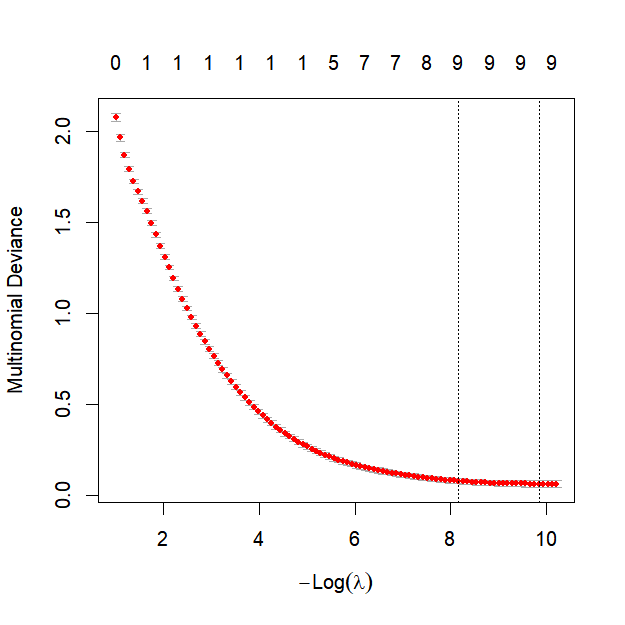
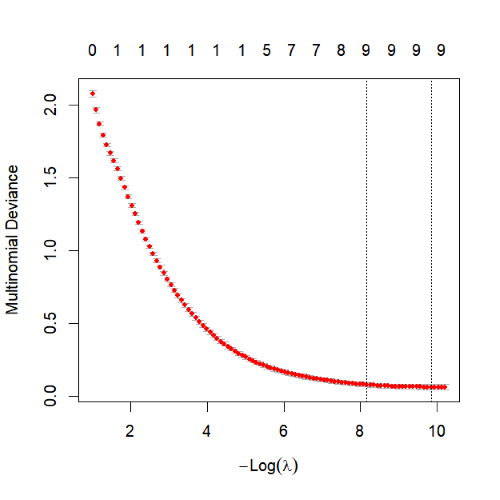
figure fixed

diff --git a/index.html b/index.html
@@ -1487,27 +1487,34 @@ updatePipelineProgress();
 
 
 <div class="bg-[linear-gradient(to_bottom,#ffffff_85%,#ffffff_100%)]">
-     <div class="grid  grid-cols-1 sm:grid-cols-[2fr_4fr] gap-0 p-4 sm:p-6 rounded-3xl mx-4 sm:mx-16 md:mx-40 bg-white overflow-hidden">
+     <div class="grid  grid-cols-1 gap-0 p-4 sm:p-6 rounded-3xl mx-4 sm:mx-16 md:mx-40 bg-white overflow-hidden">
 
           <div class="flex flex-col bg-[var(--color-bg-dark)] rounded-t-md sm:rounded-l-md sm:rounded-tr-none border-b sm:border-b-0 sm:border-r border-white p-4">
               <div class="text-left text-[var(--color-text-muted)] text-[clamp(1.2rem,2vw,4rem)] font-medium mb-6 tracking-wide" >
               <p>Does membership status correlate with higher single - transaction sales value?</p>
               </div>
 
-              <div class="text-left text-[var(--color-text-muted)] text-[clamp(1.0rem,2vw,1.5rem)] font-medium mb-6 tracking-wide" >
-              <p>Earners of this badge understand AI, ML, and generative AI concepts, methods, and strategies in general and on AWS. </p>
+              <div class="text-left text-[var(--color-text-muted)] text-[clamp(0.5rem,2vw,1.0rem)] font-medium mb-6 tracking-wide" >
+                     <p>This study aim to find out if the membership status is correlated with higher single transaction sales value based on a real-world Supermarket 
+                        Sales Dataset from Kaggle, the supermarket located in 3 regions: Chicago, Los Angeles and New York. Each supermarket has 2 branches: Branch A, Branch B.<br>
+                        <br>
+                        This dataset has 1000 observations and 12 variables, they are: sale_id, branch, city, customer_type, gender, product_name, 
+                        product_category, unit_price, quantity, tax, total_price and reward_points.<br>
+                        <br>
+                        R studio is used to visualise and analysis the data, to categorize the spending level, total spending was divided into three 
+                        levels : low price: 1.21 ~ 38.38;  middle price: 38.38 ~ 176.07; high price:176.07 ~ 433.99(unit: dollar). Tableau is used to
+                        creat the dashboard.<br>
+                        <br>
+                        Logit regression and lasso regression are used to explore the correlation between the membership status and high single 
+                        transaction sales value.<br>
+                        <br>
+                        The result shows that membership status is not significantly correlated with single transaction value, however, on low price 
+                        band, membership customer tends to spend more money;on high price band, non membership customer tends to spend more money. <br>  
+                        </p>
               </div> 
           </div>
 
-          <div class="flex flex-col bg-[var(--color-bg-dark)] rounded-t-md sm:rounded-l-md sm:rounded-tr-none border-b sm:border-b-0 sm:border-r border-white p-4">
-              <div class="text-left text-[var(--color-text-muted)] text-[clamp(1.2rem,2vw,4rem)] mb-6 tracking-wide" >
-              <p>Credential</p>
-              </div>
-
-          <div class="text-left text-[var(--color-text-muted)] text-[clamp(1.0rem,2vw,1.5rem)] font-medium mb-6 tracking-wide ">
-              <p>Earners of this certification have a fundamental understanding of IT services and their uses in the AWS Cloud. They demonstrated cloud fluency and foundational AWS knowledge. Badge owners are able to identify essential AWS services necessary to set up AWS-focused projects.</p>
-          </div>
-          </div>
+          
      </div>
 
 
@@ -1515,20 +1522,25 @@ updatePipelineProgress();
 
           <div class="flex flex-col bg-[var(--color-bg-dark)] rounded-l-md border-r border-r-white p-4">
               <div class="text-left text-[var(--color-text-muted)] text-[clamp(1.2rem,2vw,4rem)] font-medium mb-6 tracking-wide" >
-              <p>Does membership status correlate with higher single - transaction sales value?</p>
-              <img src="./imgs/Dashboard2.png" class="w-full max-w-[1000px] h-auto p-2 mx-auto">
+               <div class="ml-4" ><p>General Insighs1</p></div>
+              <img src="./imgs/Dashboard22.png" class="w-full max-w-[1000px] h-auto p-2 mx-auto">
               </div>
 
-              <div class="text-left text-[var(--color-text-muted)] text-[clamp(1.0rem,2vw,1.5rem)] font-medium mb-6 tracking-wide" >
-              <p>Earners of this badge understand AI, ML, and generative AI concepts, methods, and strategies in general and on AWS. </p>
+              <div class="text-left text-[var(--color-text-muted)] text-[clamp(1.2rem,2vw,4rem)] font-medium mb-6 tracking-wide" >
+              <div class="ml-4" ><p>General Insighs2</p></div>
               <img src="./imgs/Dashboard1.png" class="w-full w-[1000px] h-auto p-2 mx-auto">
               </div> 
-              <img src="./imgs/Dashboard3.png" class="w-full w-[1000px] h-auto p-2 mx-auto">
-              <img src="./imgs/lasso.png" class="w-full w-[1000px] h-auto p-2 mx-auto">
+              
+              <div class="ml-4 text-left text-[var(--color-text-muted)] text-[clamp(1.2rem,2vw,4rem)] font-medium mb-2 tracking-wide" ><p>Lasso Regression Figure</p></div>
+              <div class="grid grid-cols-1 sm:grid-cols-[1fr_1.3fr] items-stretch">
+              
+              <img src="./imgs/Rplot.png" class="w-full w-[500px] h-auto mx-auto">
+              <img src="./imgs/lasso.png" class="w-full w-[574px] h-auto mx-auto">
          </div>
+          </div>
           <div class="flex flex-col bg-[var(--color-bg-dark)] rounded-r-md p-4 ">
               <div class="text-left text-[var(--color-text-muted)] text-[clamp(1.2rem,2vw,4rem)] mb-6 tracking-wide" >
-              <p>Credential</p>
+              <p>Analysis</p>
               </div>
 
           <div class="text-left text-[var(--color-text-muted)] text-[clamp(0.5rem,2vw,1.0rem)] font-medium mb-6 tracking-wide ">
